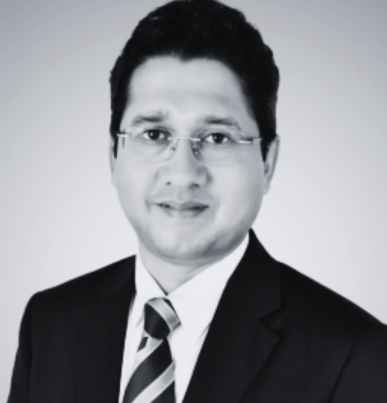
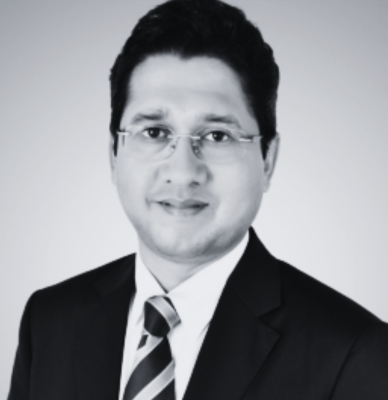
new chnages

diff --git a/src/app/ourfaculty/page.tsx b/src/app/ourfaculty/page.tsx
@@ -39,7 +39,7 @@ const ManagementTeam = () => {
 
 <div className="cardlist grid grid-cols-2 max-sm:grid-cols-1 gap-[20px]">
   <div className="imagecard">
-    <Image src="/managementteam/5.png" width={300} height={300} alt={""} objectFit="cover" className="w-[100%]" />
+    <Image src="/managementteam/15.png" width={300} height={300} alt={""} objectFit="cover" className="w-[100%]" />
   </div>
   <div className="contentcard">
     <h3 className="text-[#da202f] text-xl font-bold mb-[10px] ">Name: Dr. Ravikesh Srivastava</h3>
@@ -59,7 +59,7 @@ reputed B-Schools. </p>
 
 <div className="cardlist grid grid-cols-2 max-sm:grid-cols-1 gap-[20px]">
   <div className="imagecard">
-    <Image src="/managementteam/6.webp" width={300} height={300} alt={""} objectFit="cover" className="w-[100%]" />
+    <Image src="/managementteam/766.PNG" width={300} height={300} alt={""} objectFit="cover" className="w-[100%]" />
   </div>
   <div className="contentcard">
     <h3 className="text-[#da202f] text-xl font-bold mb-[10px] ">Name: Dr. Rakhi Singh </h3>
